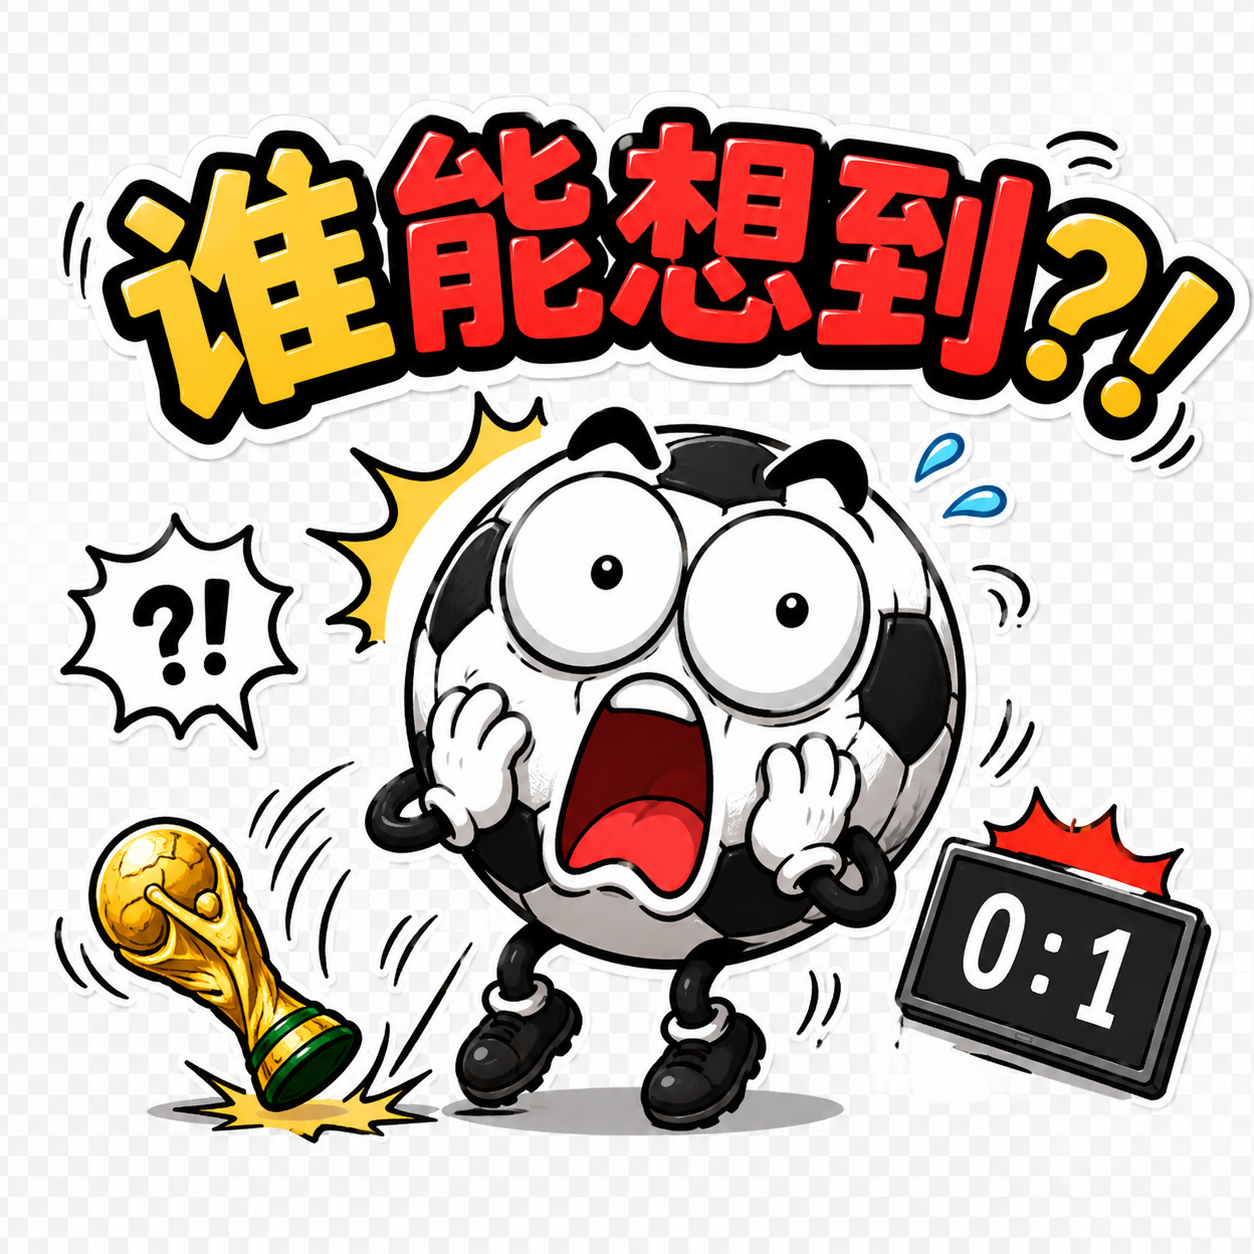
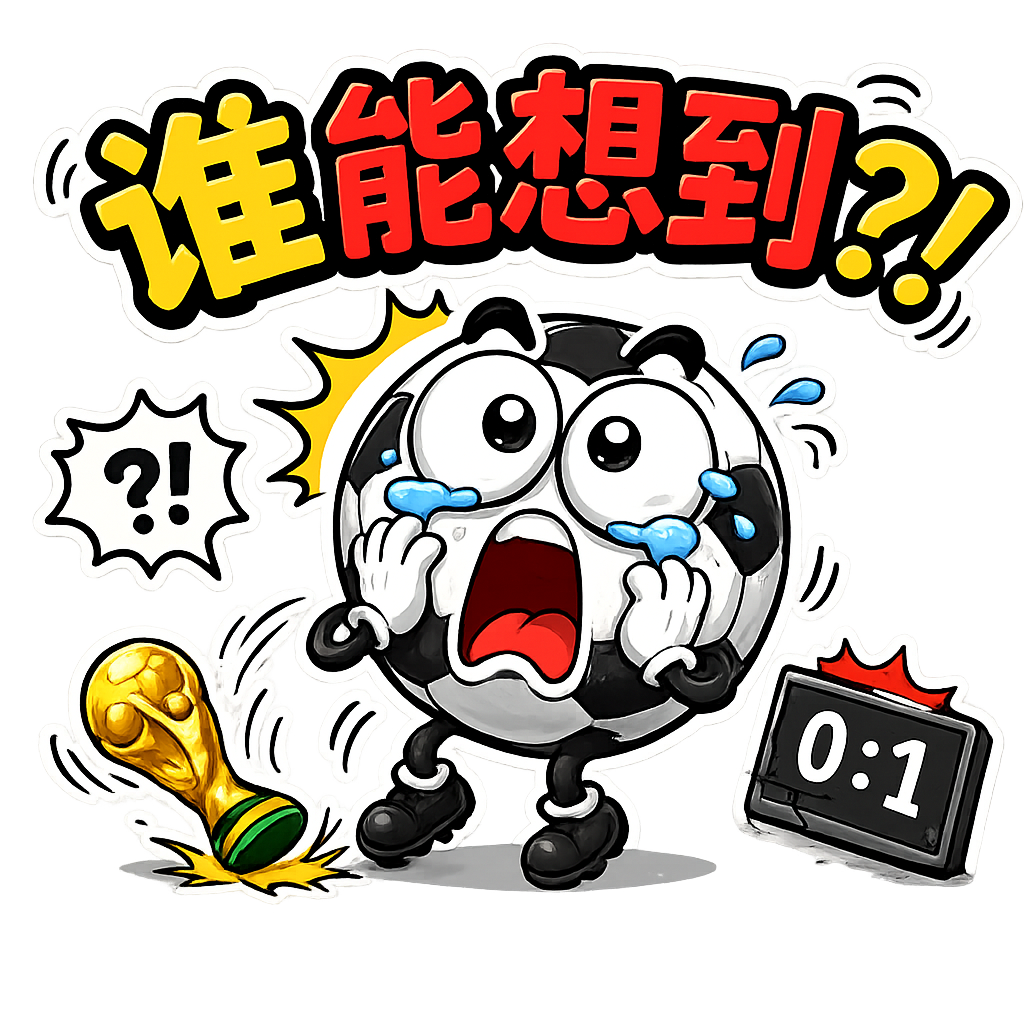
feat: 更新贴纸 - 新增12/13，删除10，11置顶，贴纸标签前置

diff --git a/src/components/ChatContent.tsx b/src/components/ChatContent.tsx
@@ -45,8 +45,8 @@ export default function ChatContent({ games, currentUser }: { games: GameWithRol
   const [text, setText] = useState('')
   const [sending, setSending] = useState(false)
   const [showEmoji, setShowEmoji] = useState(false)
-  const [emojiTab, setEmojiTab] = useState<'emoji' | 'sticker'>('emoji')
-  const STICKER_COUNT = 11
+  const [emojiTab, setEmojiTab] = useState<'emoji' | 'sticker'>('sticker')
+  const STICKER_ORDER = [11, 12, 13, 1, 2, 3, 4, 5, 6, 7, 8, 9]
   const inputRef = useRef<HTMLInputElement>(null)
   const [unreadConvIds, setUnreadConvIds] = useState<Set<string>>(new Set())
   const [showSidebar, setShowSidebar] = useState(true)
@@ -398,17 +398,17 @@ export default function ChatContent({ games, currentUser }: { games: GameWithRol
                     <div className="flex border-b border-gray-200 dark:border-gray-700">
                       <button
                         type="button"
-                        onClick={() => setEmojiTab('emoji')}
-                        className={`flex-1 py-2 text-sm font-medium rounded-tl-2xl transition-colors ${emojiTab === 'emoji' ? 'bg-amber-50 dark:bg-amber-900/20 text-amber-600' : 'text-gray-500 dark:text-gray-400 hover:bg-gray-50 dark:hover:bg-gray-700'}`}
+                        onClick={() => setEmojiTab('sticker')}
+                        className={`flex-1 py-2 text-sm font-medium rounded-tl-2xl transition-colors ${emojiTab === 'sticker' ? 'bg-amber-50 dark:bg-amber-900/20 text-amber-600' : 'text-gray-500 dark:text-gray-400 hover:bg-gray-50 dark:hover:bg-gray-700'}`}
                       >
-                        😊 表情
+                        🎭 贴纸
                       </button>
                       <button
                         type="button"
-                        onClick={() => setEmojiTab('sticker')}
-                        className={`flex-1 py-2 text-sm font-medium rounded-tr-2xl transition-colors ${emojiTab === 'sticker' ? 'bg-amber-50 dark:bg-amber-900/20 text-amber-600' : 'text-gray-500 dark:text-gray-400 hover:bg-gray-50 dark:hover:bg-gray-700'}`}
+                        onClick={() => setEmojiTab('emoji')}
+                        className={`flex-1 py-2 text-sm font-medium rounded-tr-2xl transition-colors ${emojiTab === 'emoji' ? 'bg-amber-50 dark:bg-amber-900/20 text-amber-600' : 'text-gray-500 dark:text-gray-400 hover:bg-gray-50 dark:hover:bg-gray-700'}`}
                       >
-                        🎭 贴纸
+                        😊 表情
                       </button>
                     </div>
 
@@ -442,7 +442,7 @@ export default function ChatContent({ games, currentUser }: { games: GameWithRol
                     {/* Sticker grid */}
                     {emojiTab === 'sticker' && (
                       <div className="p-3 grid grid-cols-4 gap-2 max-h-52 overflow-y-auto">
-                        {Array.from({ length: STICKER_COUNT }, (_, i) => i + 1).map(n => (
+                        {STICKER_ORDER.map(n => (
                           <button
                             key={n}
                             type="button"